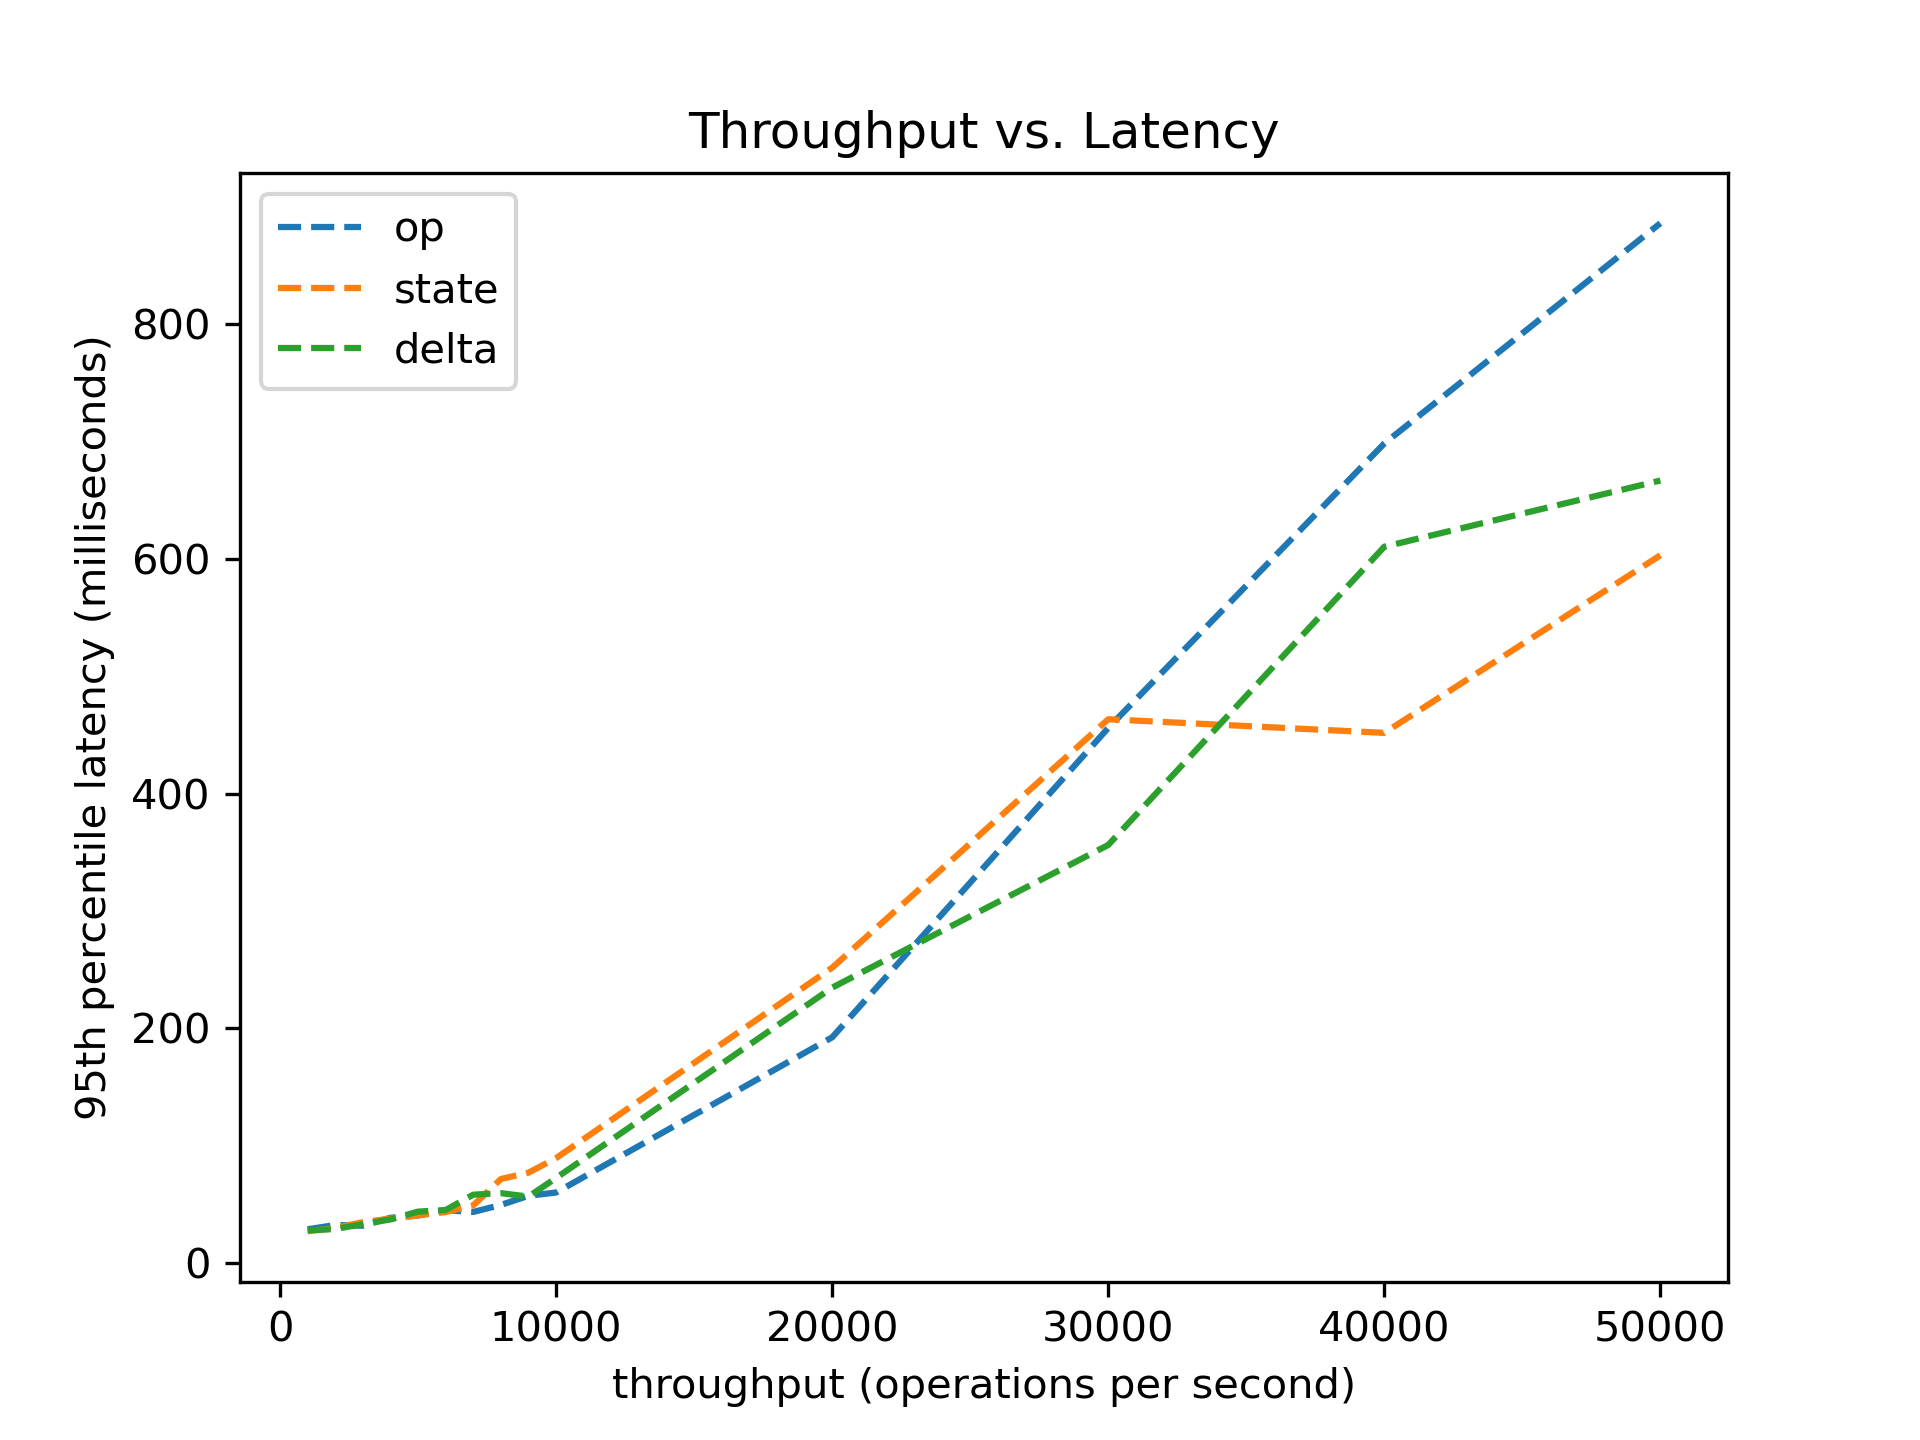
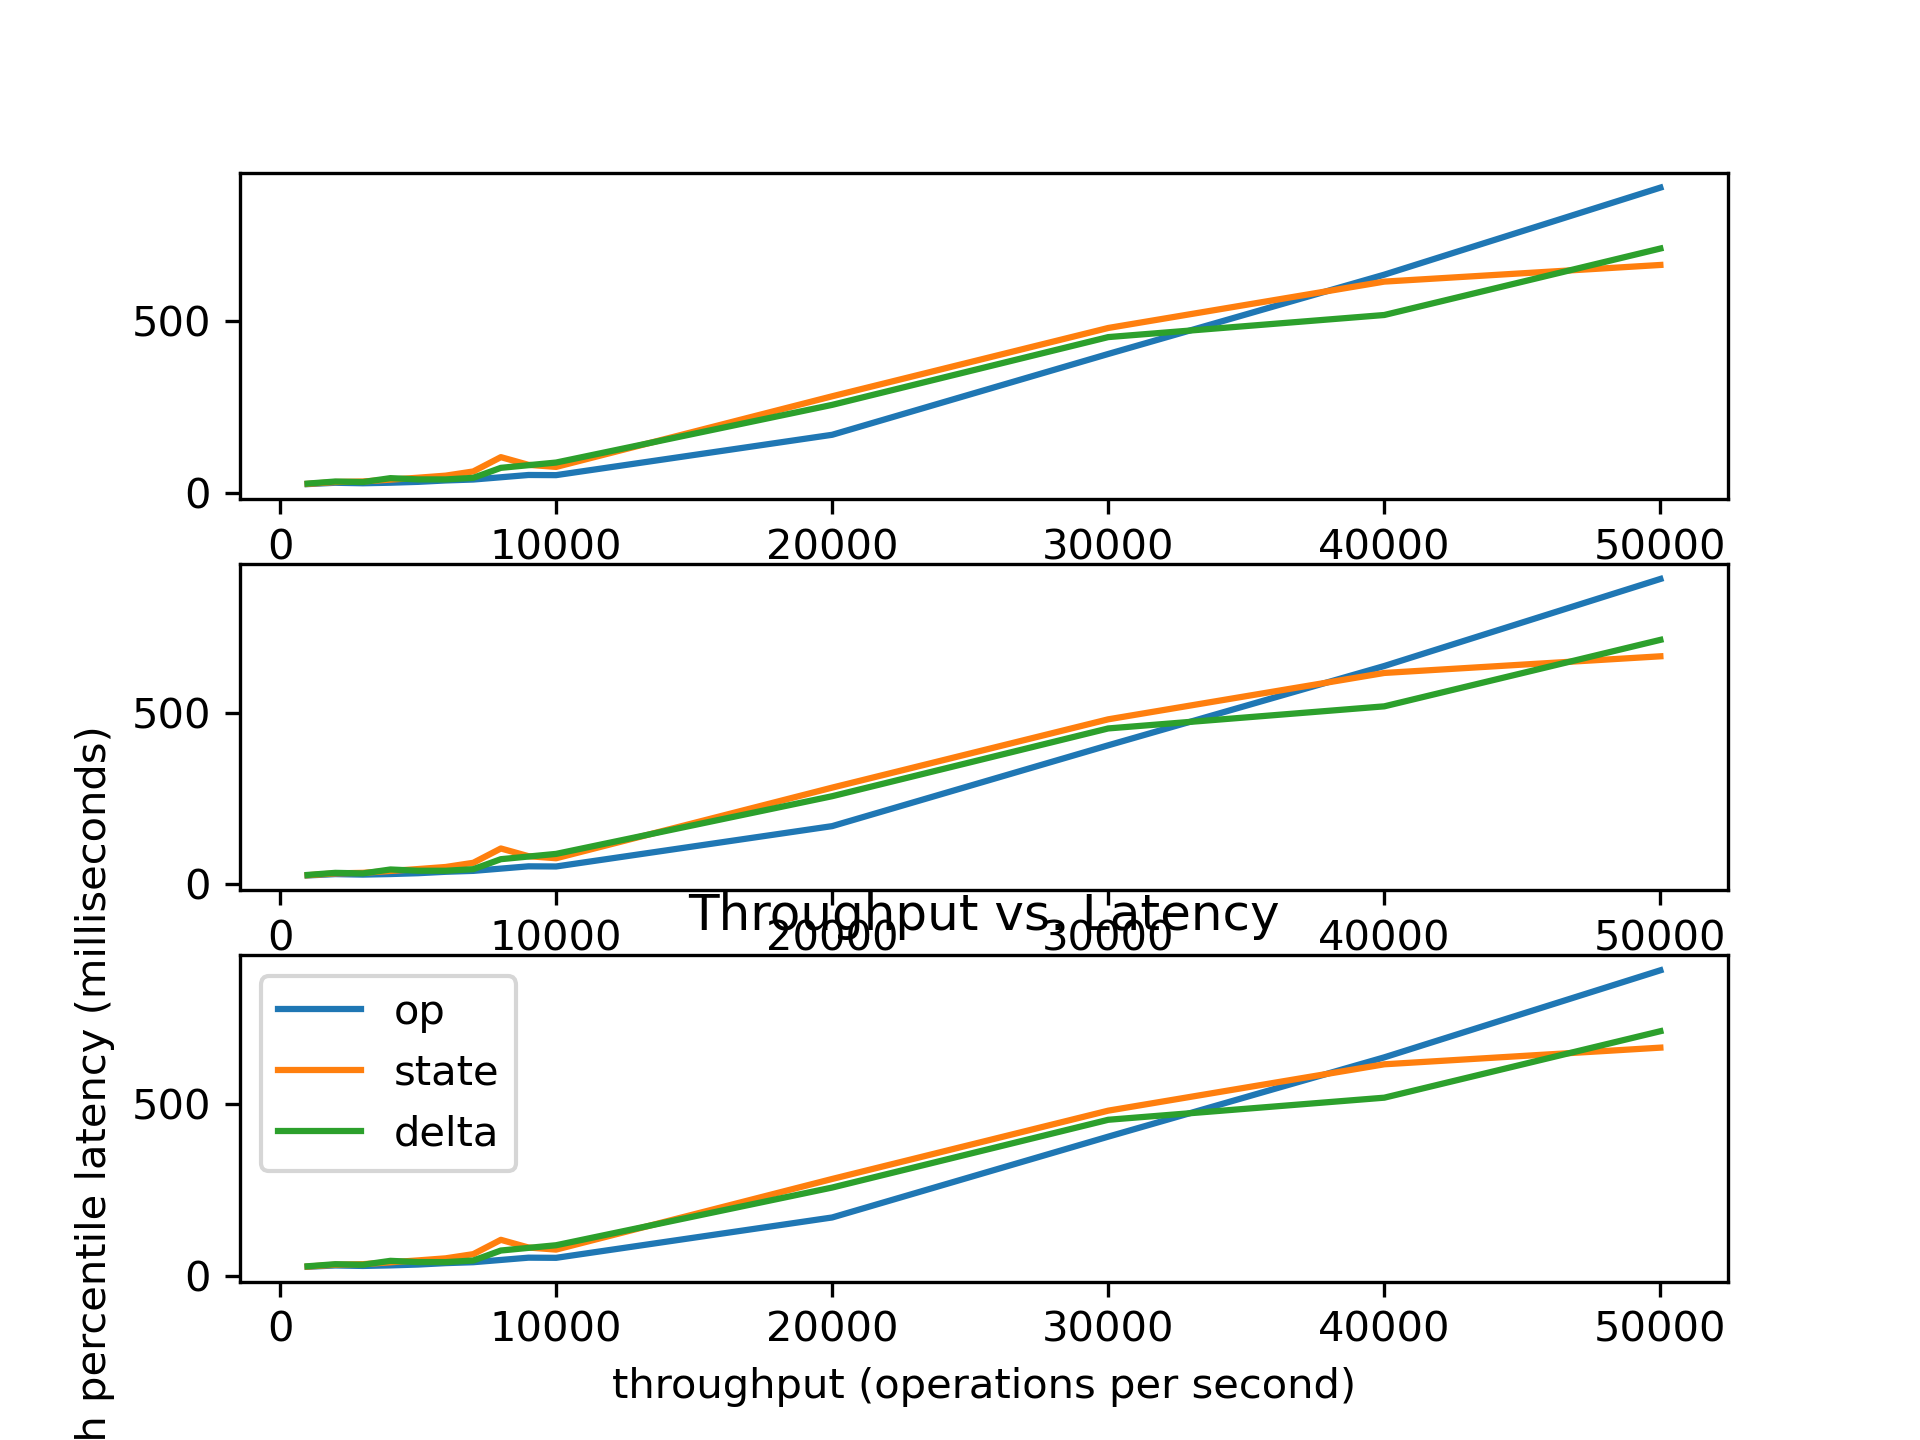
Add w0,w80,w100 graphs

diff --git a/benchmark/graph.py b/benchmark/graph.py
@@ -6,21 +6,25 @@ from matplotlib import rc
 rc('font', **{'family':'sans-serif','sans-serif':['DejaVu Sans'],'size':10})
 rc('mathtext', **{'default':'regular'})
 
-df_op = pd.read_csv('set/results_op_w100.csv')
+graph = 'w0'
+
+plt.hlines(23, 0, 50000, linestyles='dashed', label='baseline latency', color='k')
+
+df_op = pd.read_csv(f'set/results_op_{graph}.csv')
 df_op.sort_values(by='throughput', inplace=True)
-plt.plot(df_op['throughput'], df_op['latency'] / 1000000, '--', label='op')
+plt.plot(df_op['throughput'], df_op['latency'] / 1000000, label='op')
 
-df_state = pd.read_csv('set/results_state_w100.csv')
+df_state = pd.read_csv(f'set/results_state_{graph}.csv')
 df_state.sort_values(by='throughput', inplace=True)
-plt.plot(df_state['throughput'], df_state['latency'] / 1000000, '--', label='state')
+plt.plot(df_state['throughput'], df_state['latency'] / 1000000, label='state')
 
-df_delta = pd.read_csv('set/results_delta_w100.csv')
+df_delta = pd.read_csv(f'set/results_delta_{graph}.csv')
 df_delta.sort_values(by='throughput', inplace=True)
-plt.plot(df_delta['throughput'], df_delta['latency'] / 1000000, '--', label='delta')
+plt.plot(df_delta['throughput'], df_delta['latency'] / 1000000, label='delta')
 
 plt.xlabel('throughput (operations per second)')
 plt.ylabel('95th percentile latency (milliseconds)')
 plt.title('Throughput vs. Latency')
 plt.legend()
 # plt.plot(df['throughput'], df['latency'] / 1000000)
-plt.savefig('test.png', dpi=300)
+plt.savefig(f'{graph}.png', dpi=300)
